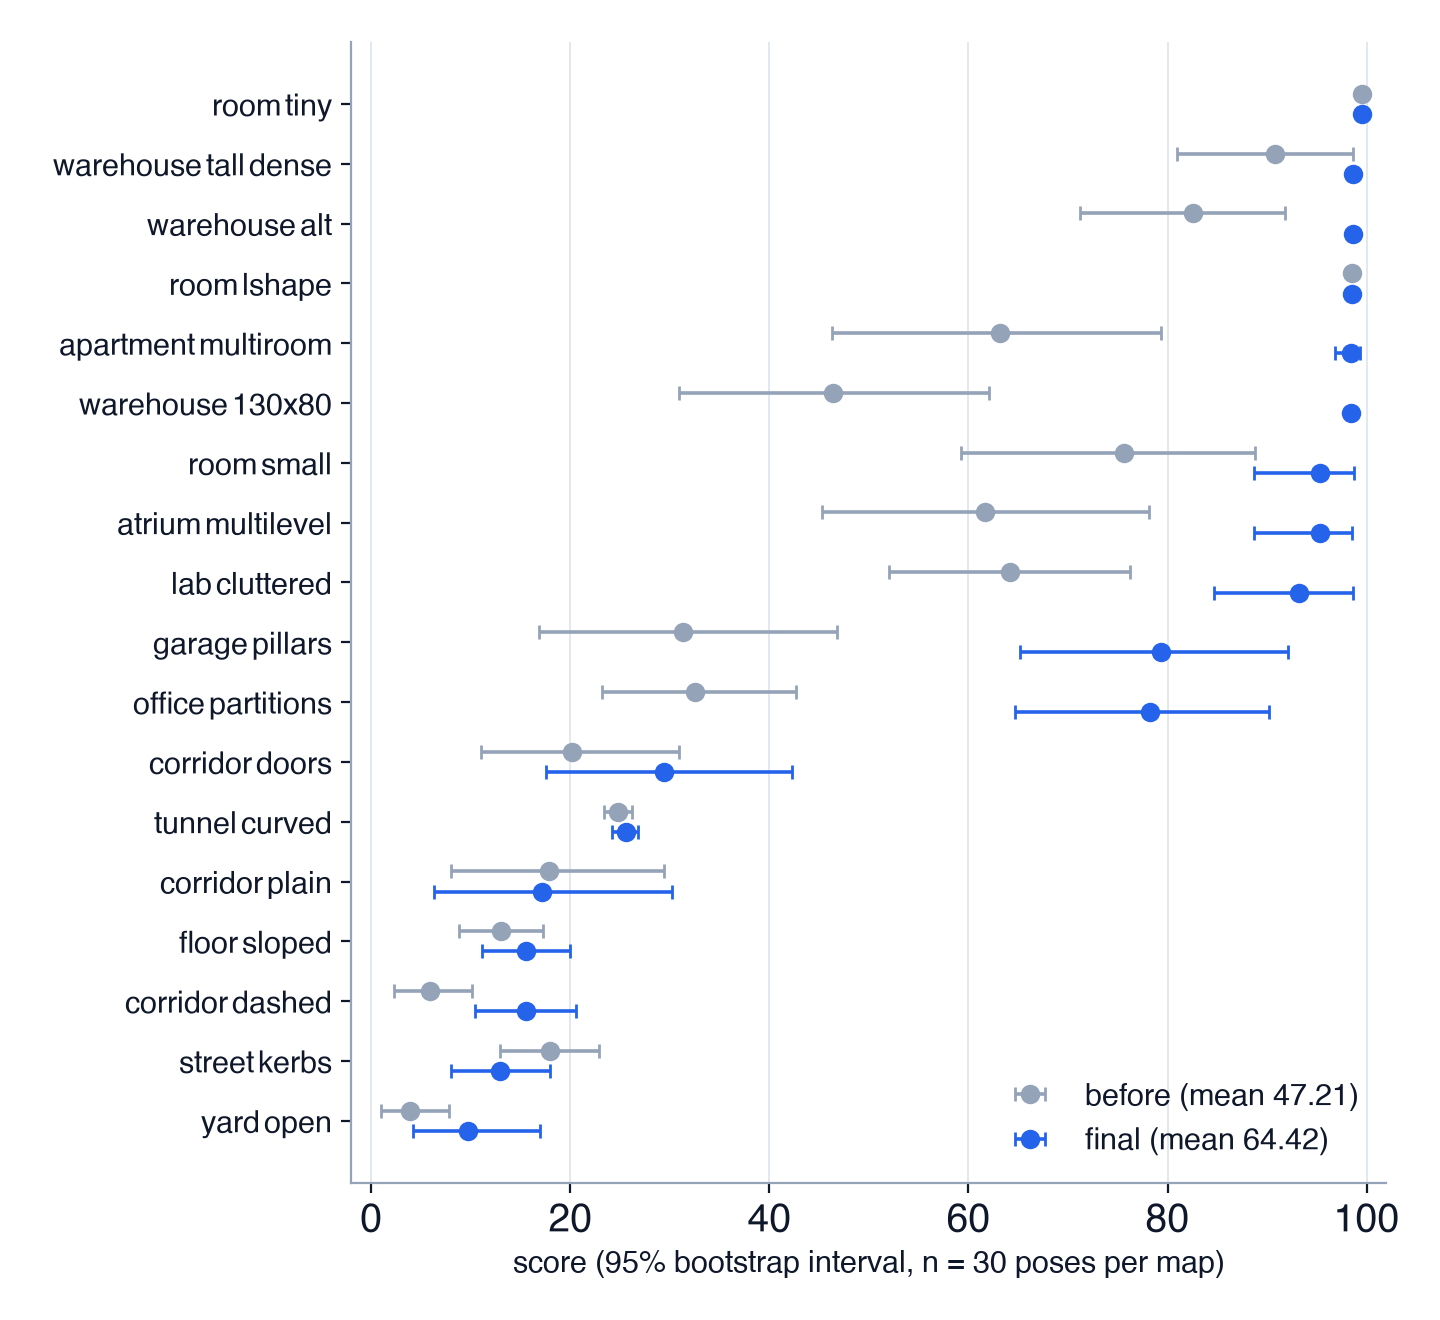
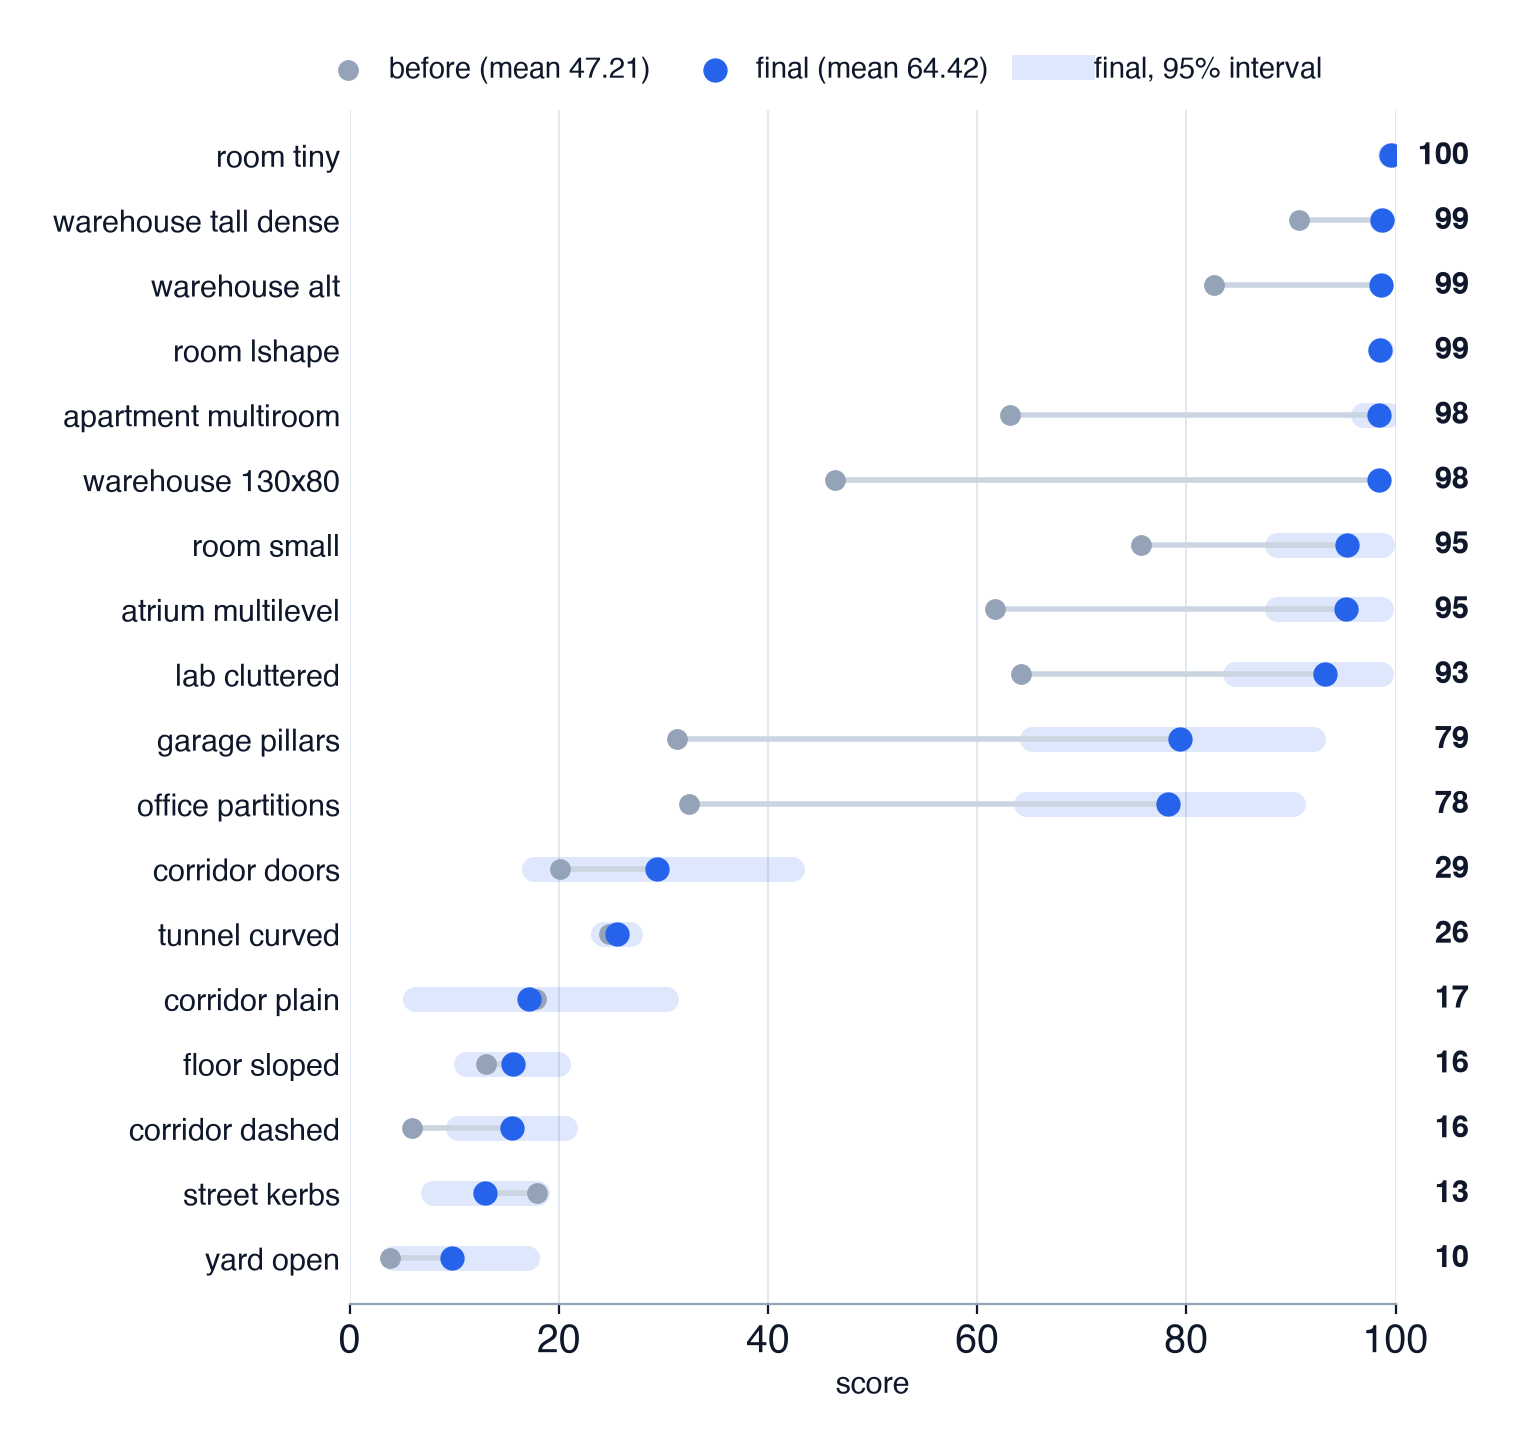
LiDAR post: cleaner per-map before/after chart

diff --git a/content/posts/lidar-localizer/index.md b/content/posts/lidar-localizer/index.md
@@ -290,7 +290,7 @@ before comparing them, that took the office map from SR@fine 0.17 to
 The dev submission stayed byte-identical from the day before the deadline on, which is our check that
 the derived constants come from the map alone.
 
-![Per-map score on the 18 synthetic test maps before (grey, mean 47.21) and after (blue, mean 64.42), with 95% bootstrap intervals over poses](blog_img/bench_ci.png)
+![Per-map score on the 18 synthetic test maps before (grey, mean 47.21) and after (blue, mean 64.42), with the final score's 95% bootstrap interval shaded](blog_img/bench_ci.png)
 
 A note on sample size: each synthetic map has 30 poses (23 and 29 on the two
 smallest rooms, where there isn't space for more). The intervals in the chart are
